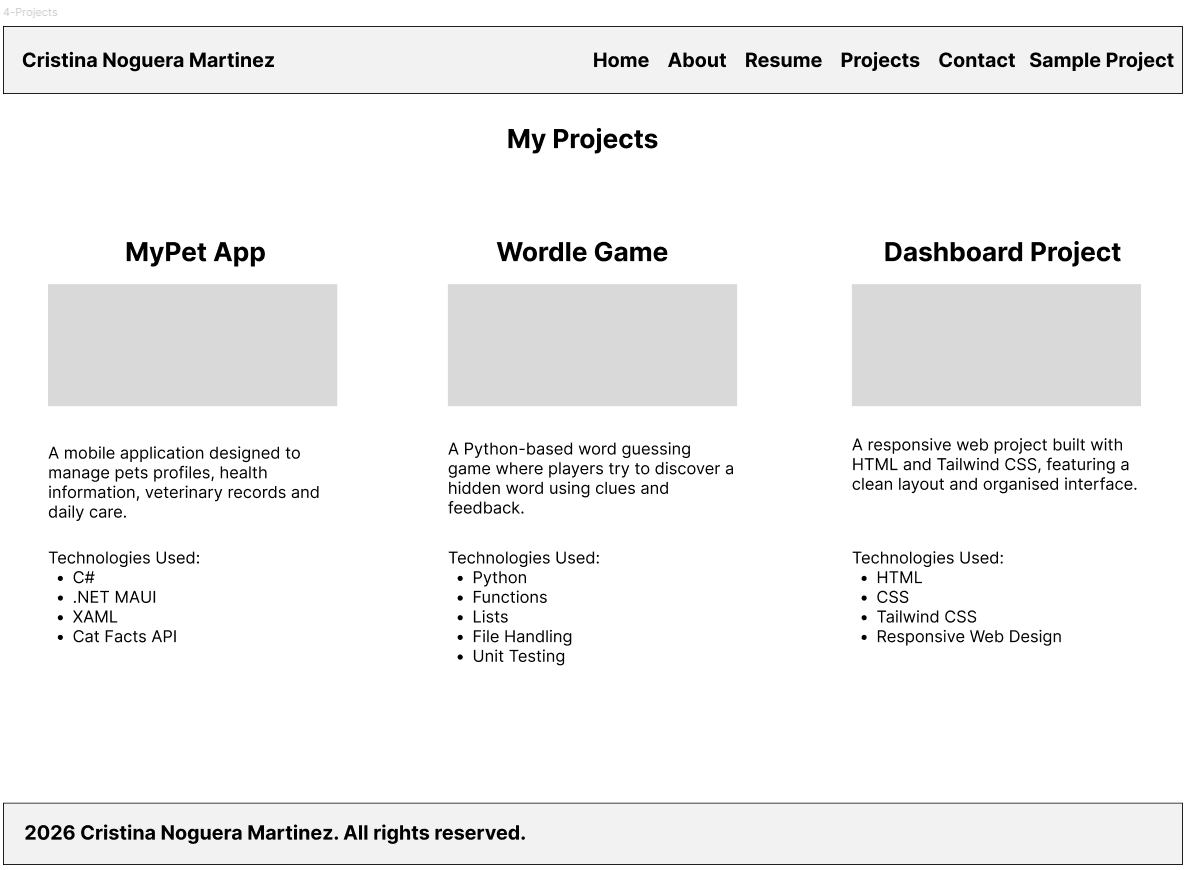
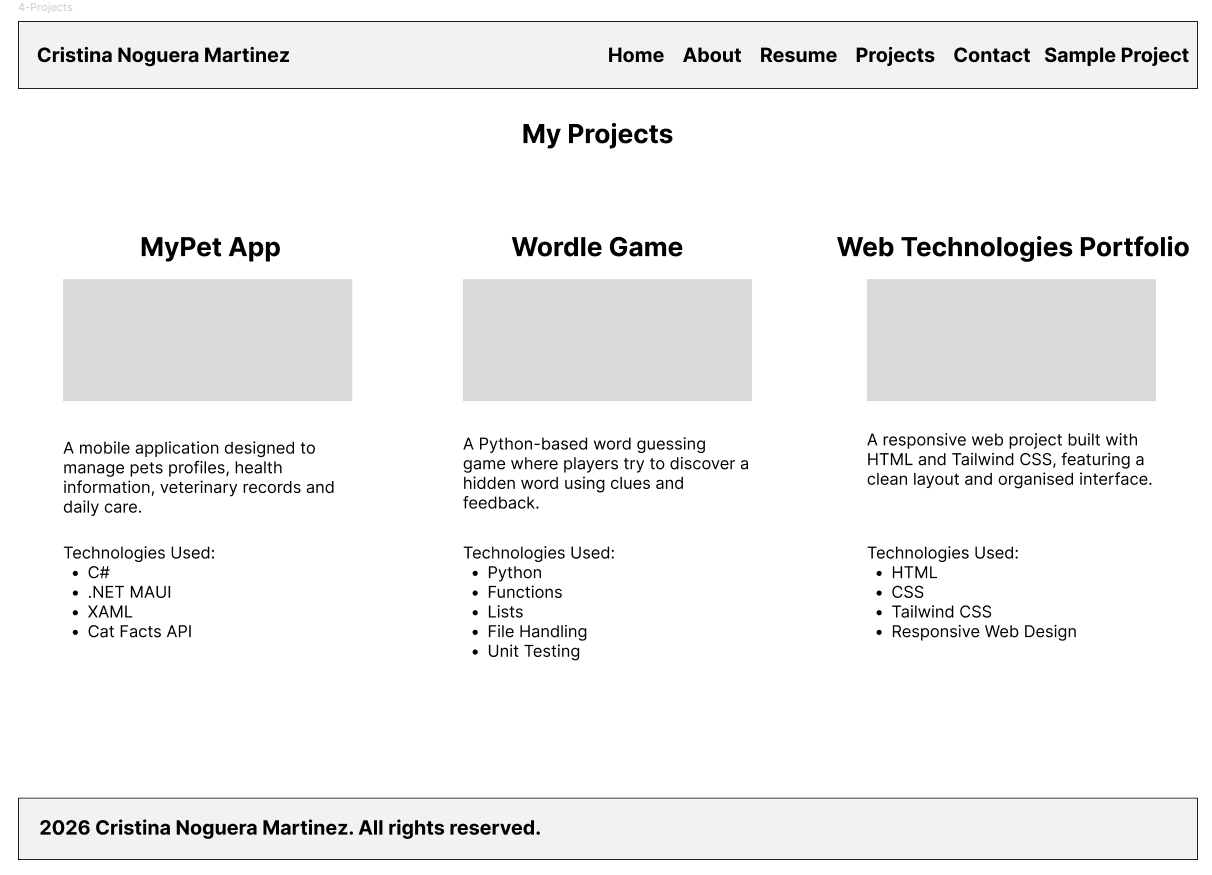
feat(projects): create projects page

diff --git a/projects.html b/projects.html
@@ -1,0 +1,100 @@
+
+<!DOCTYPE html>
+<html lang="en">
+<head>
+    <meta charset="UTF-8">
+    <meta name="viewport" content="width=device-width, initial-scale=1.0">
+    <title>Projects | Cristina Noguera Martinez</title>
+    <link rel="stylesheet" href="assets/css/style.css">
+</head>
+<body>
+
+    <header>
+        <nav class="header-container">
+            <h1>Cristina Noguera Martinez</h1>
+            <ul>
+                <li><a href="index.html">Home</a></li>
+                <li><a href="about.html">About</a></li>
+                <li><a href="resume.html">Resume</a></li>
+                <li><a href="projects.html">Projects</a></li>
+                <li><a href="contact.html">Contact</a></li>
+                <li><a href="sample-projects/mywork.html">Sample Project</a></li>
+            </ul>
+        </nav>
+    </header>
+
+    <main>
+        <h2>My Projects</h2>
+
+        <section class="projects-container">
+
+            <article class="project-card">
+                <h3>MyPet App</h3>
+
+                <img src="assets/img/MyPet.png" alt="MyPet application interface">
+
+                <p>
+                    MyPet is a mobile application designed to manage pets profiles, 
+                    health information, veterinary records and daily care.
+                </p>
+
+                <p>Technologies Used:</p>
+                <ul>
+                    <li>C#</li>
+                    <li>.NET MAUI</li>
+                    <li>XAML</li>
+                    <li>API</li>
+                </ul>
+            </article>
+
+            <article class="project-card">
+                <h3>Wordle Game</h3>
+
+                <img src="assets/img/wordle.png" alt="Wordle Game project">
+
+                <p>
+                    A Python-based word guessing game where players try to
+                    discover a hidden word using clues and feedback.
+                </p>
+
+                <p>Technologies Used:</p>
+                <ul>
+                    <li>Python</li>
+                    <li>Functions</li>
+                    <li>Lists</li>
+                    <li>File Handling</li>
+                    <li>Unit Testing</li>
+                </ul>
+            </article>
+
+            <article class="project-card">
+                <h3>Web Technologies Portfolio</h3>
+
+                <img src="assets/img/dashboard.png" alt="Dashboard web project">
+
+                <p>
+                    A responsive web project built with HTML and Tailwind CSS,
+                    featuring a clean layout and organised interface.
+                </p>
+
+                <p>Technologies Used:</p>
+                <ul>
+                    <li>HTML</li>
+                    <li>CSS</li>
+                    <li>Tailwind CSS</li>
+                    <li>Responsive Web Design</li>
+                </ul>
+            </article>
+        </section>
+
+    </main>
+
+    <footer>
+        <p>
+            <a href="copyright.html">Copyright</a>
+            2026 Cristina Noguera Martinez. All rights reserved.
+        </p>
+    </footer>
+
+</body>
+</html>

diff --git a/assets/css/style.css b/assets/css/style.css
@@ -287,3 +287,34 @@ nav a:hover {
         padding: 20px;
     }
 }
+
+/* Projects Page */
+.projects-container {
+    display: grid;
+    grid-template-columns: repeat(3, 1fr);
+    gap: 40px;
+    padding: 30px;
+}
+
+.project-card {
+    border: 1px solid #CCD5AE;
+    border-radius: 10px;
+    padding: 20px;
+    background-color: #FAEDCD;
+}
+
+.project-card img {
+    width: 100%;
+    height: 180px;
+    object-fit: contain;
+    display: block;
+    margin-bottom: 20px;
+}
+
+/* Projects Page - Responsive */
+@media (max-width: 768px) {
+    .projects-container {
+        grid-template-columns: 1fr;
+        gap: 20px;
+    }
+}
